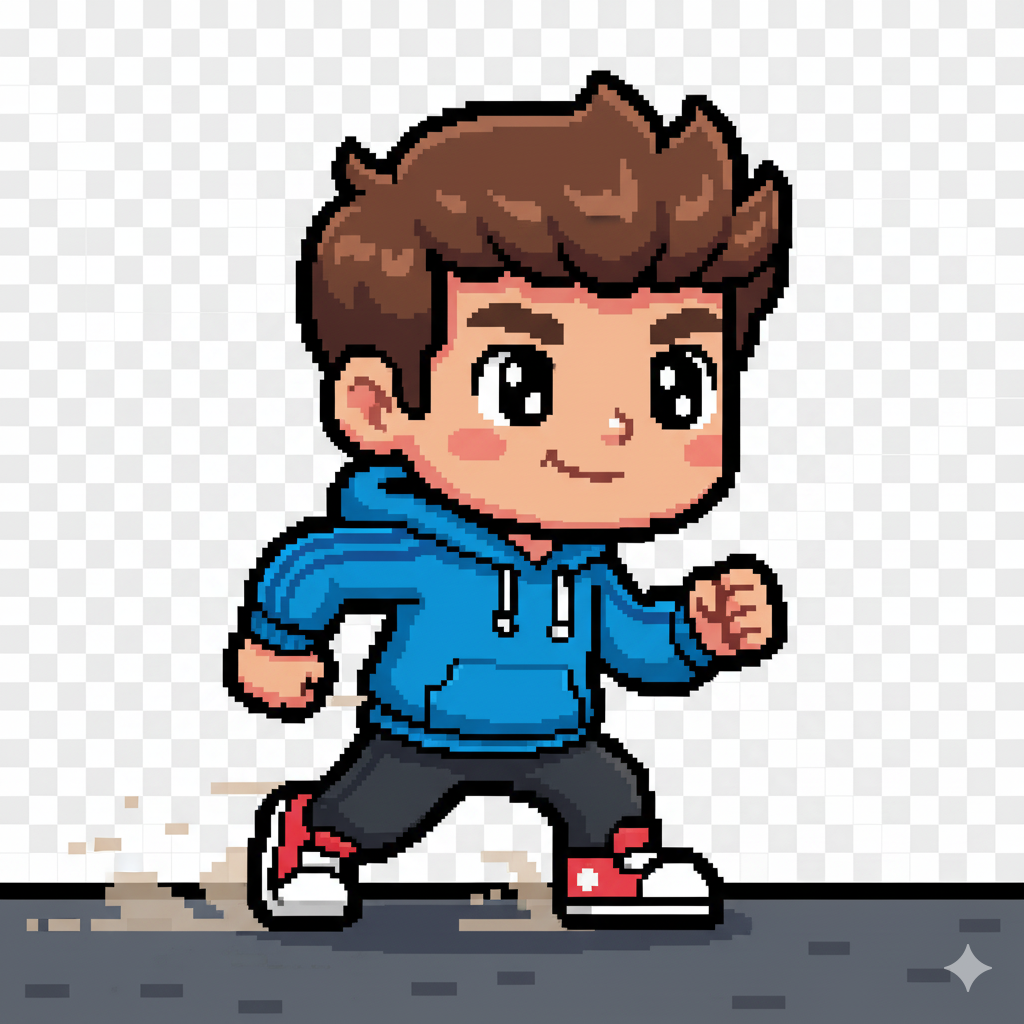
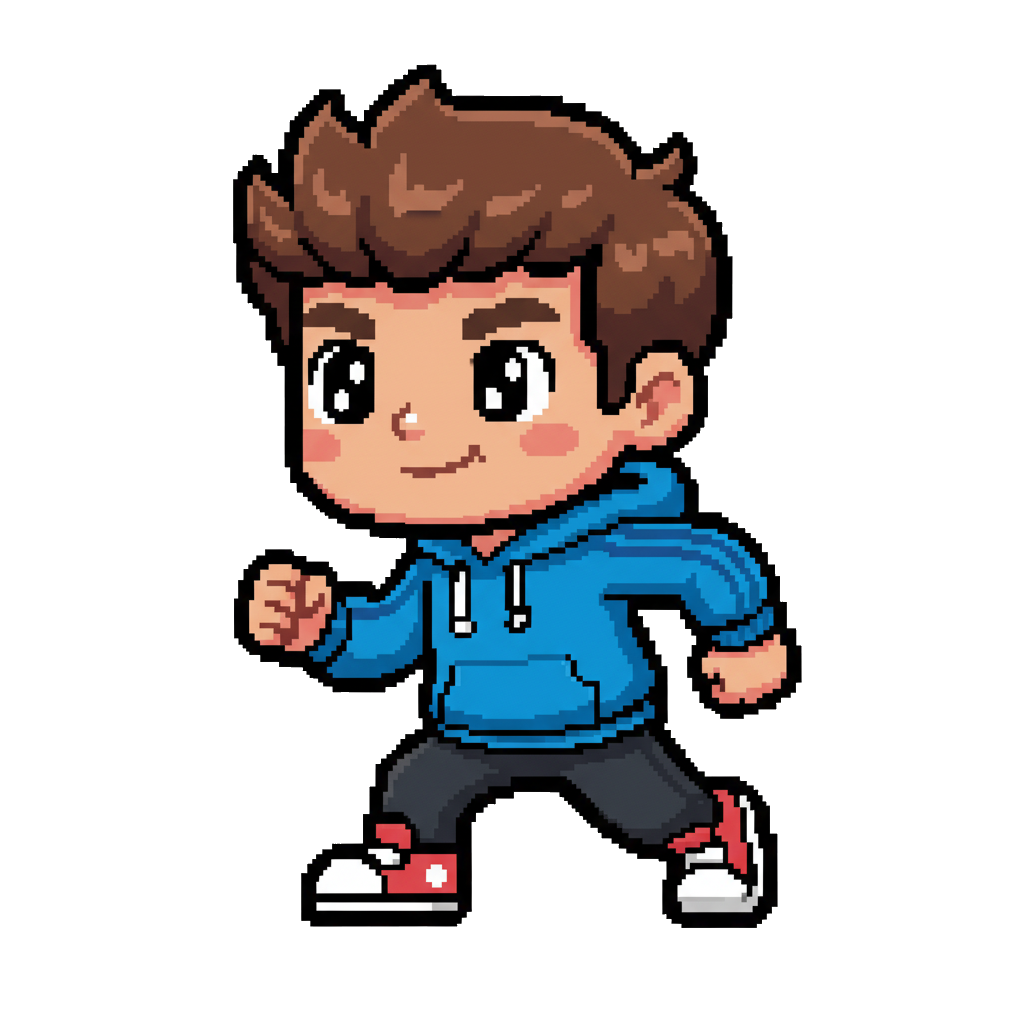
이미지 변경

diff --git a/src/objects/Player.ts b/src/objects/Player.ts
@@ -5,24 +5,19 @@ export default class Player extends Phaser.Physics.Arcade.Sprite {
   private speed: number = 300;
 
   constructor(scene: Phaser.Scene, x: number, y: number) {
-    super(scene, x, y, '');
+    // 기본 텍스처는 front (정면)
+    super(scene, x, y, 'front');
 
     // 씬에 추가
     scene.add.existing(this);
     scene.physics.add.existing(this);
 
-    // 텍스처가 없으면 생성
-    if (!scene.textures.exists('player')) {
-      this.createPlayerGraphics();
-    }
-
-    // 텍스처 적용
-    this.setTexture('player');
-    this.setDisplaySize(30, 45);
+    // 캐릭터 크기 설정
+    this.setDisplaySize(60, 80);
 
     // 히트박스를 몸통 중심부만 (더 작게)
-    this.setSize(16, 28);
-    this.setOffset(7, 10);
+    this.setSize(500, 750);
+    this.setOffset(285,200);
 
     // 물리 설정
     this.setCollideWorldBounds(true);
@@ -32,71 +27,18 @@ export default class Player extends Phaser.Physics.Arcade.Sprite {
     this.cursors = scene.input.keyboard!.createCursorKeys();
   }
 
-  private createPlayerGraphics() {
-    const graphics = this.scene.make.graphics({ x: 0, y: 0 });
-
-    // 부드러운 2D 스타일 플레이어
-
-    // 그림자 (뒤쪽에 어두운 원형)
-    graphics.fillStyle(0x000000, 0.15);
-    graphics.fillCircle(15, 42, 8);
-
-    // 머리 (부드러운 원형)
-    graphics.fillStyle(0xffdbac, 1);
-    graphics.fillCircle(15, 10, 8);
-
-    // 머리 하이라이트
-    graphics.fillStyle(0xffeacc, 0.6);
-    graphics.fillCircle(12, 8, 3);
-
-    // 눈
-    graphics.fillStyle(0x000000, 1);
-    graphics.fillCircle(12, 10, 1.5);
-    graphics.fillCircle(18, 10, 1.5);
-
-    // 입 (작은 미소)
-    graphics.lineStyle(1, 0x000000, 0.5);
-    graphics.beginPath();
-    graphics.arc(15, 11, 3, 0, Math.PI, false);
-    graphics.strokePath();
-
-    // 몸통 (둥근 사각형)
-    graphics.fillStyle(0x4169e1, 1);
-    graphics.fillRoundedRect(8, 16, 14, 14, 3);
-
-    // 몸통 하이라이트
-    graphics.fillStyle(0x6fa3ff, 0.4);
-    graphics.fillRoundedRect(9, 17, 6, 6, 2);
-
-    // 몸통 그림자
-    graphics.fillStyle(0x2854b8, 0.3);
-    graphics.fillRoundedRect(8, 25, 14, 5, 3);
-
-    // 팔 (둥근 형태)
-    graphics.fillStyle(0x4169e1, 1);
-    graphics.fillRoundedRect(4, 18, 4, 10, 2);
-    graphics.fillRoundedRect(22, 18, 4, 10, 2);
-
-    // 다리 (둥근 형태)
-    graphics.fillStyle(0x2c2c2c, 1);
-    graphics.fillRoundedRect(9, 30, 5, 10, 2);
-    graphics.fillRoundedRect(16, 30, 5, 10, 2);
-
-    // 신발 (타원형)
-    graphics.fillStyle(0x000000, 1);
-    graphics.fillEllipse(11, 40, 4, 2);
-    graphics.fillEllipse(18, 40, 4, 2);
-
-    graphics.generateTexture('player', 30, 45);
-    graphics.destroy();
-  }
-
   update() {
+    let isMoving = false;
+
     // 좌우 이동
     if (this.cursors.left.isDown) {
       this.setVelocityX(-this.speed);
+      this.setTexture('left'); // 왼쪽 이미지
+      isMoving = true;
     } else if (this.cursors.right.isDown) {
       this.setVelocityX(this.speed);
+      this.setTexture('right'); // 오른쪽 이미지
+      isMoving = true;
     } else {
       this.setVelocityX(0);
     }
@@ -108,9 +50,18 @@ export default class Player extends Phaser.Physics.Arcade.Sprite {
 
       if (pointerX < playerX - 20) {
         this.setVelocityX(-this.speed);
+        this.setTexture('left'); // 왼쪽 이미지
+        isMoving = true;
       } else if (pointerX > playerX + 20) {
         this.setVelocityX(this.speed);
+        this.setTexture('right'); // 오른쪽 이미지
+        isMoving = true;
       }
+    }
+
+    // 멈춰있을 때는 정면 이미지
+    if (!isMoving && this.body?.velocity.x === 0) {
+      this.setTexture('front');
     }
   }
 }

diff --git a/src/scenes/GameScene.ts b/src/scenes/GameScene.ts
@@ -15,15 +15,26 @@ export default class GameScene extends Phaser.Scene {
     super('GameScene');
   }
 
+  preload() {
+    // 이미지 로드
+    this.load.image('background', 'assets/background.png');
+    this.load.image('front', 'assets/front.png');
+    this.load.image('left', 'assets/left.png');
+    this.load.image('right', 'assets/right.png');
+    this.load.image('poop', 'assets/poop.png');
+  }
+
   create() {
-    // 배경색 설정
-    this.cameras.main.setBackgroundColor('#87CEEB');
+    // 배경 이미지 추가
+    const background = this.add.image(200, 300, 'background');
+    // 배경을 화면에 맞게 조정
+    background.setDisplaySize(400, 600);
 
     // 월드 바운드 설정 (플레이어가 화면 안쪽에만 머무르도록)
     this.physics.world.setBounds(15, 0, 370, 600);
 
     // 플레이어 생성
-    this.player = new Player(this, 200, 500);
+    this.player = new Player(this, 200, 520);
 
     // 💩 그룹 생성
     this.poops = this.physics.add.group({

diff --git a/src/objects/Poop.ts b/src/objects/Poop.ts
@@ -1,12 +1,10 @@
 import Phaser from 'phaser';
 
-export default class Poop extends Phaser.GameObjects.Text {
+export default class Poop extends Phaser.Physics.Arcade.Sprite {
   private fallSpeed: number;
 
   constructor(scene: Phaser.Scene, x: number, y: number, difficulty: number = 1) {
-    super(scene, x, y, '💩', {
-      fontSize: '30px'
-    });
+    super(scene, x, y, 'poop');
 
     // 원점을 중앙으로 설정
     this.setOrigin(0.5);
@@ -18,11 +16,14 @@ export default class Poop extends Phaser.GameObjects.Text {
     scene.add.existing(this);
     scene.physics.add.existing(this);
 
+    // 똥 이미지 크기 설정
+    this.setDisplaySize(40, 40);
+
     // 물리 바디가 생성된 후 설정 적용
     const body = this.body as Phaser.Physics.Arcade.Body;
     if (body) {
       // 히트박스 설정
-      body.setSize(20, 20);
+      body.setSize(500, 500);
       body.setCollideWorldBounds(false);
       body.setVelocityY(this.fallSpeed);
     }
